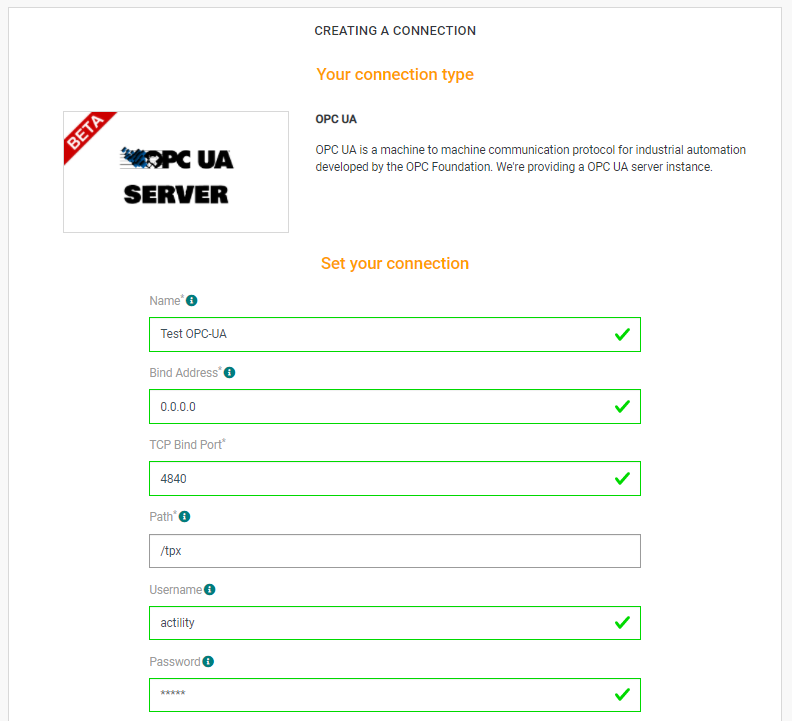
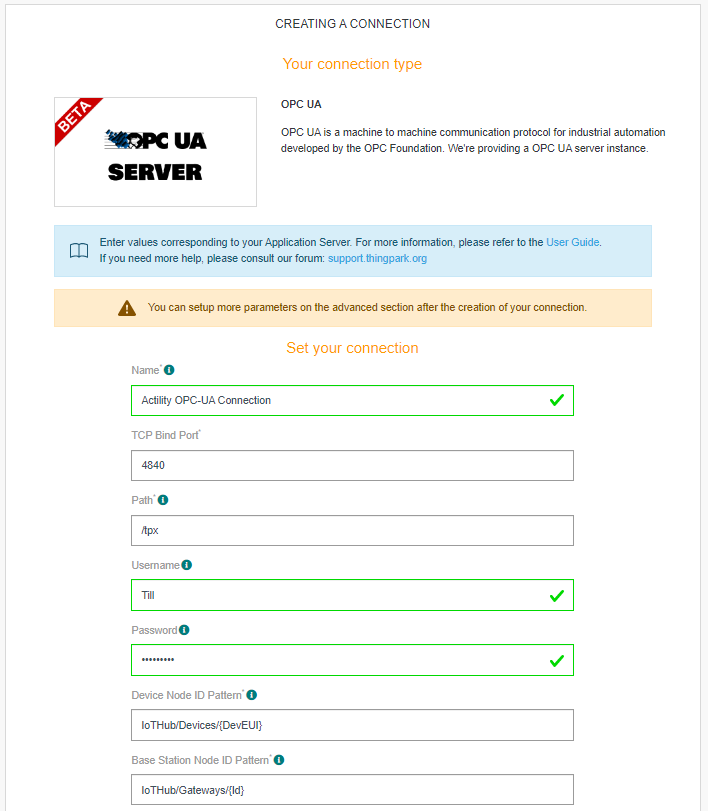
OPCUA Doc update

diff --git a/docs/Connector/OPCUA/README.md b/docs/Connector/OPCUA/README.md
@@ -10,7 +10,7 @@ The OPC-UA connector is available only on Thingpark Entreprise OCP version
 
 The creation of a connection establishes a unidirectional from your devices and gateways to an embedded OPC-UA server.
 Uplinks from devices are decoded and automatically mapped to OPC-UA namespace node values, gateways statistics are also exposed to this embedded OPC-UA server.
-You can connect to the embedded OPC-UA server and query the namespace node values via their own OPC-UA client implementations.
+You can connect to the embedded OPC-UA server and query the namespace node values via their own OPC-UA client implementations. Aliases are also supported for publish values on existing nodeId.
 
 This OPC-UA server contain a discovery mechanism. It's good practice to provide a discovery-specific endpoint with no security.
 It's required practice if all regular endpoints have security configured. Usage of the "/discovery" suffix is defined by OPC UA Part 6:
@@ -80,6 +80,14 @@ The parameters are the following:
 | ```path``` | The baseURI for accessing embedded the OPC-UA server. |
 | ```username``` | Username used for basic authentication to the OPC-UA server. |
 | ```password``` | Password used for basic authentication to the OPC-UA server. |
+| ```deviceNodeIdPattern``` | Pattern used for publication of all device informations. |
+| ```baseStationNodeIdPattern``` | Pattern used for publication of all gateway informations. |
+
+
+## Aliases
+
+OPC-UA connection support aliases of node Ids. Just fill the panel named "Aliases"
+![img](./images/ui/alias-rules.png)
 
 ## Creating a Connection With API
 
@@ -107,7 +115,24 @@ POST /connections
       "tcpBindPort": 4840,
       "path": "/tpx",
       "username": "Till",
-      "password": "Lindemann"
+      "password": "Lindemann",
+      "purgeNamespace": false,
+      "deviceNodeIdPattern": "IoTHub/Devices/{DevEUI}",
+      "baseStationNodeIdPattern": "IoTHub/Gateways/{Id}",
+      "aliases": [
+        {
+          "path": "IoTHub/Devices/A81758FFFE04F27E/temperature",
+          "mappedPath": "AliasTemperature/Alias/Tag0001"
+        },
+        {
+          "path": "IoTHub/Devices/A81758FFFE04F27E/humidity",
+          "mappedPath": "AliasHumidity/Tag0002"
+        },
+        {
+          "path": "IoTHub/Devices/A81758FFFE04F27E/light",
+          "mappedPath": "Light/Alias/Tag0003"
+        }
+      ]
     }
 }
 ```

diff --git a/docs/TPX_IOT_FLOW_17X/README.md b/docs/TPX_IOT_FLOW_17X/README.md
@@ -105,7 +105,7 @@
 | ```TXIF-2159``` | OPCUA Connector - Certificate expired. |
 | ```TXIF-1968``` | Azure Event Hub Connector generate too many errors. |
 
-## DEPRECATED FEATURES
+### DEPRECATED FEATURES
 | ```TXIF-2211``` | Transformation operation on uplink are now deprecated on Flow and should be migrated on Connection transformation. |
 
 ## 1.7.7
